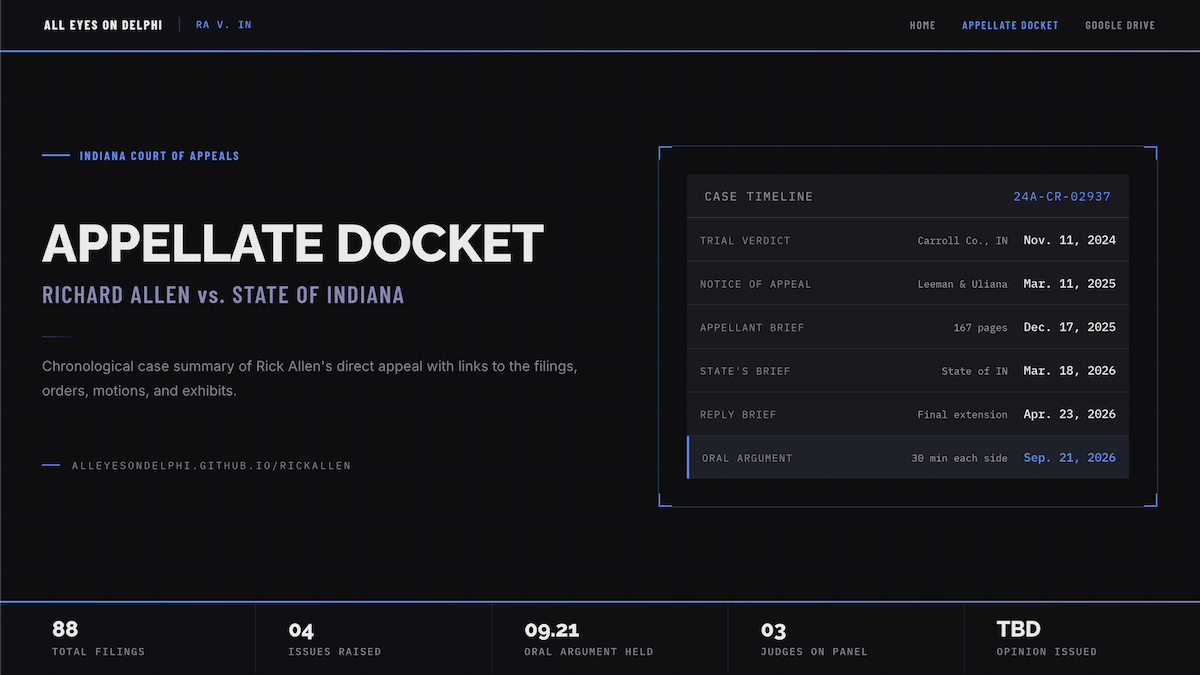
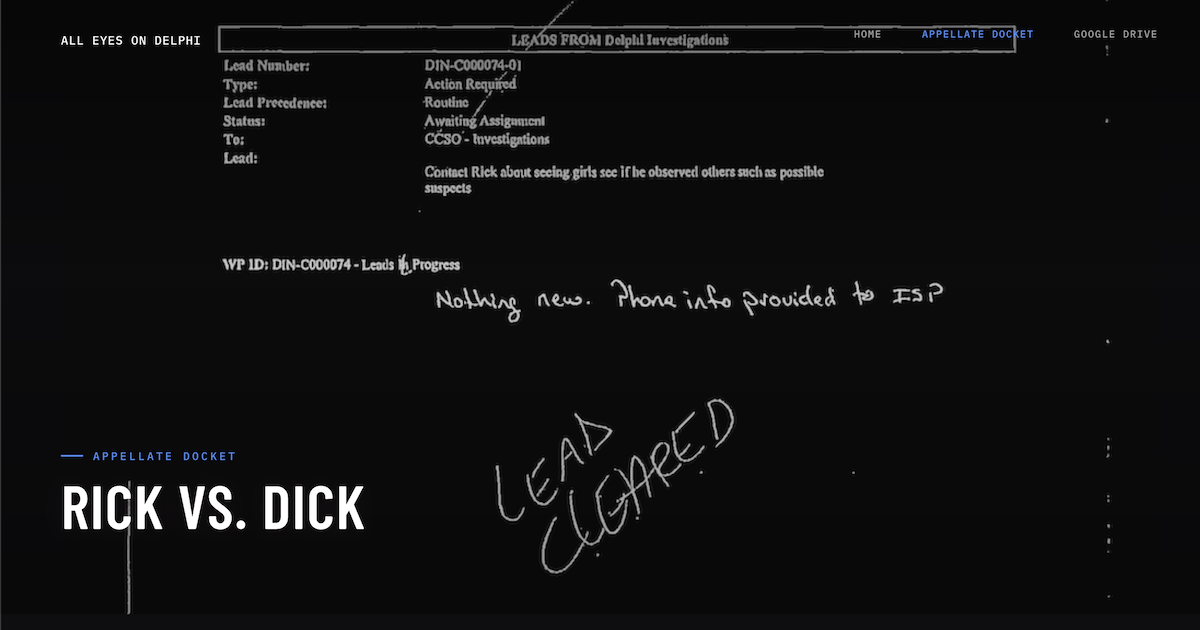
preview img size

diff --git a/appellate-docket.html b/appellate-docket.html
@@ -13,7 +13,7 @@
   <meta property="og:url" content="https://alleyesondelphi.github.io/rickallen/appellate-docket">
   <meta property="og:image" content="https://alleyesondelphi.github.io/rickallen/assets/preview/appellate-docket.png">
   <meta property="og:image:width" content="1200">
-  <meta property="og:image:height" content="675">
+  <meta property="og:image:height" content="630">
   <meta property="og:site_name" content="RA v. IN | All Eyes on Delphi">
   <!-- Twitter Card -->
   <meta name="twitter:card" content="summary_large_image">
